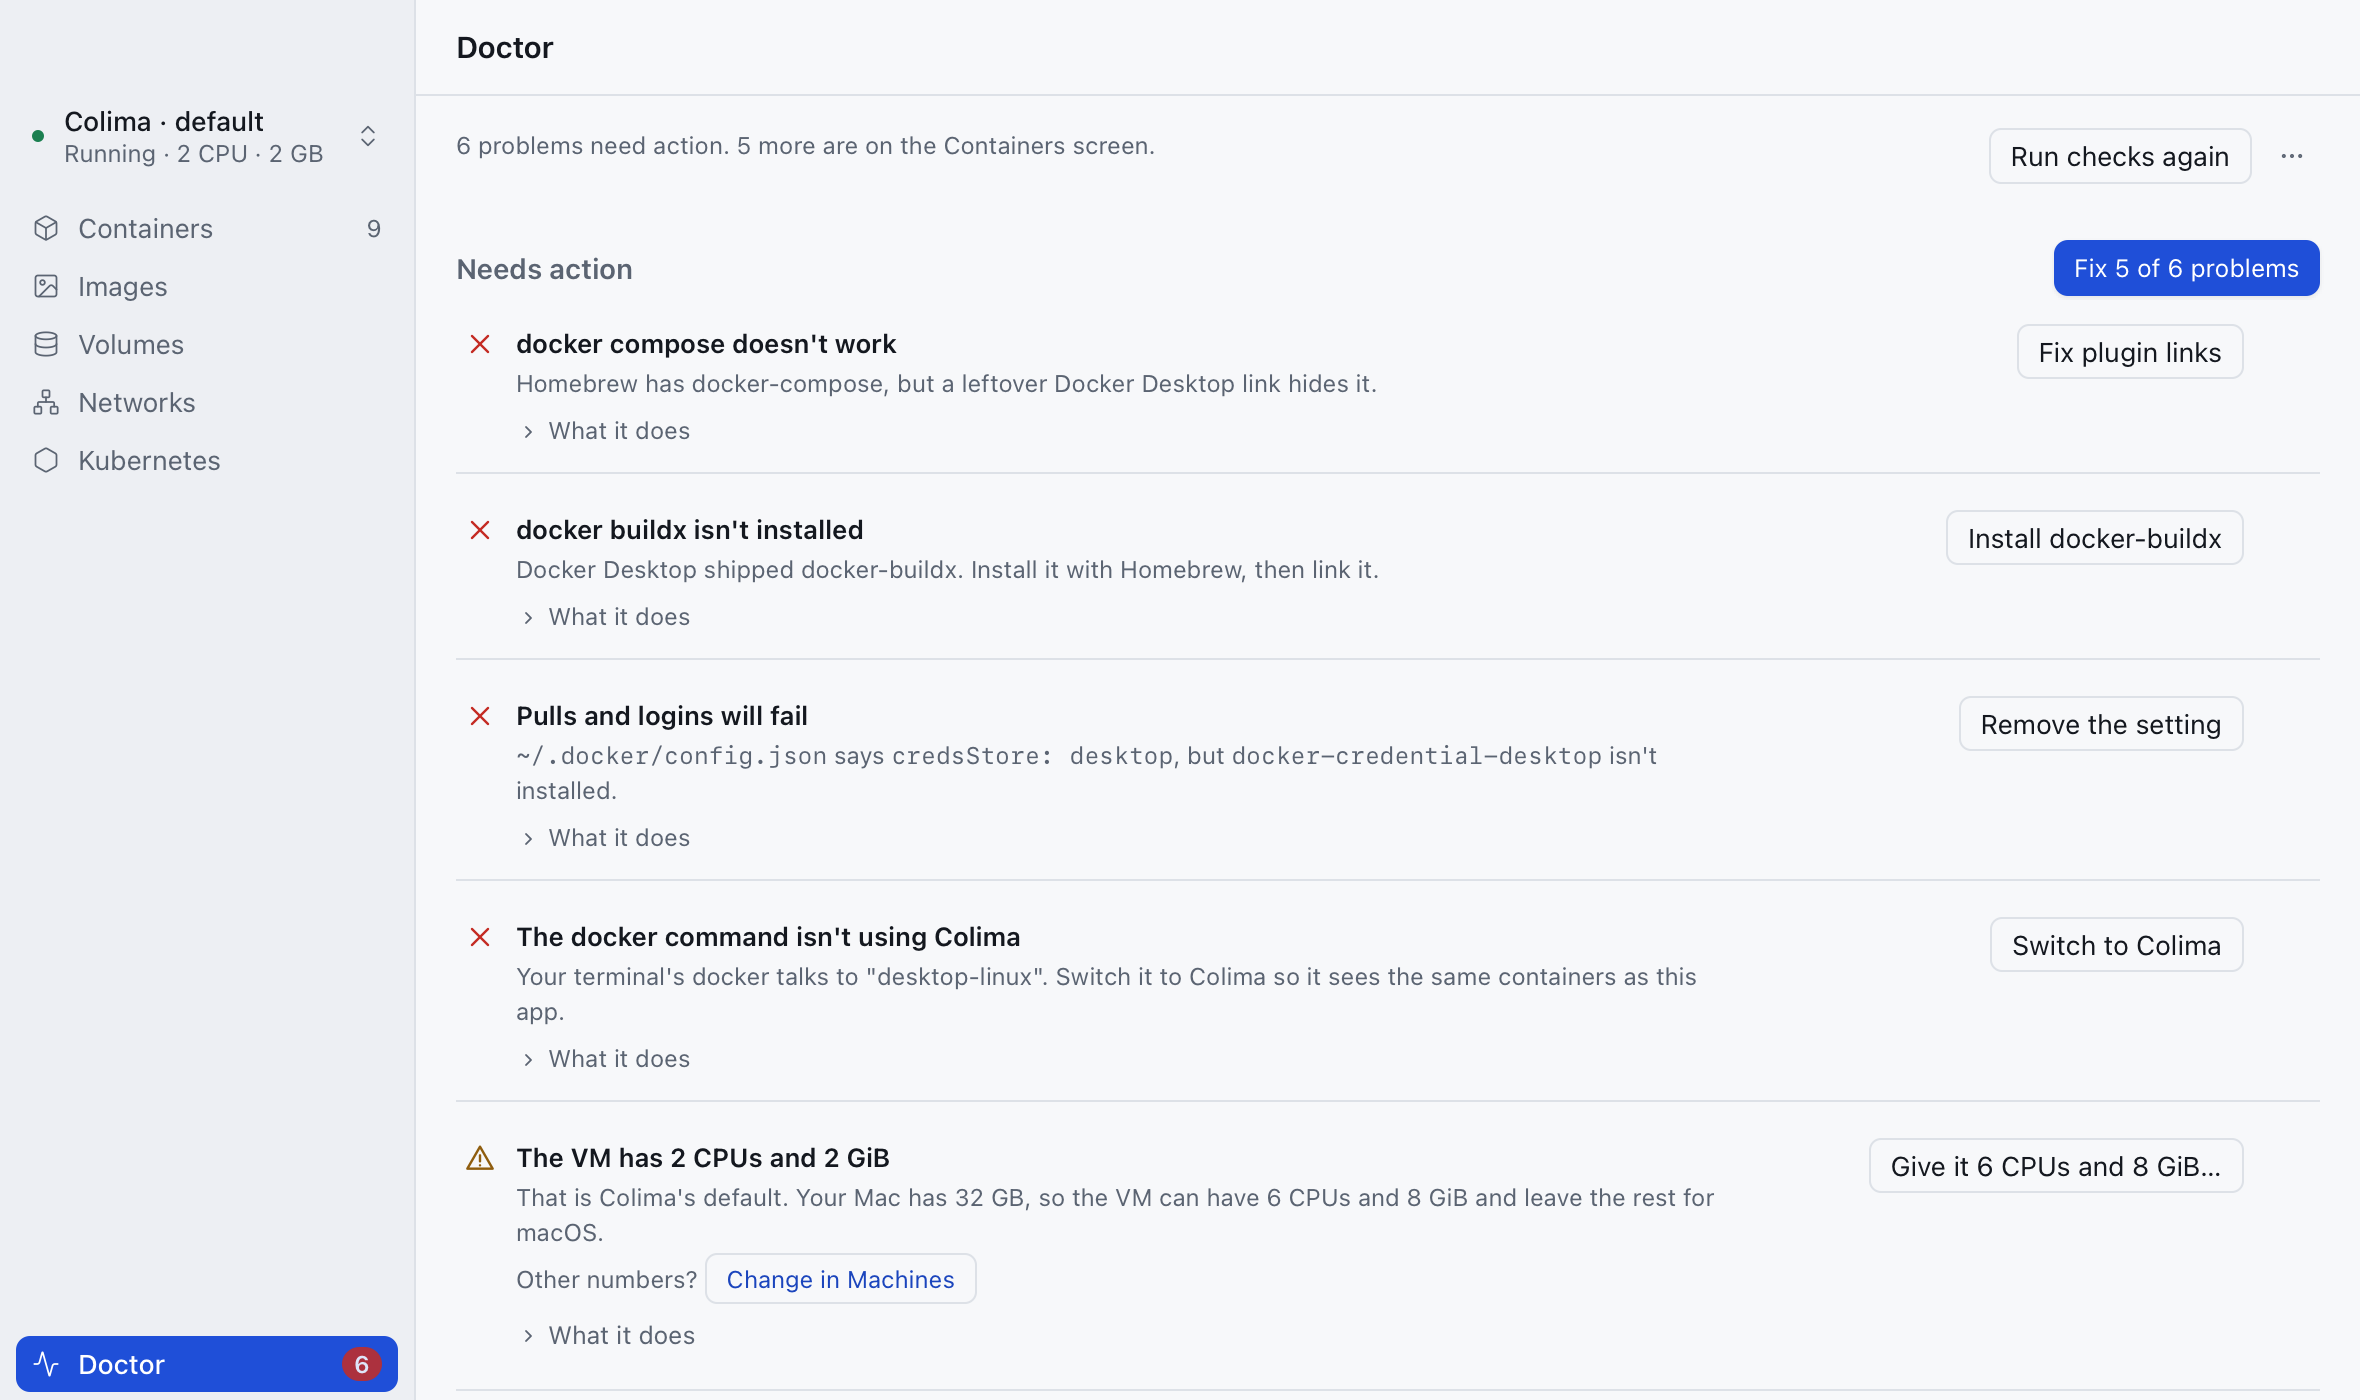
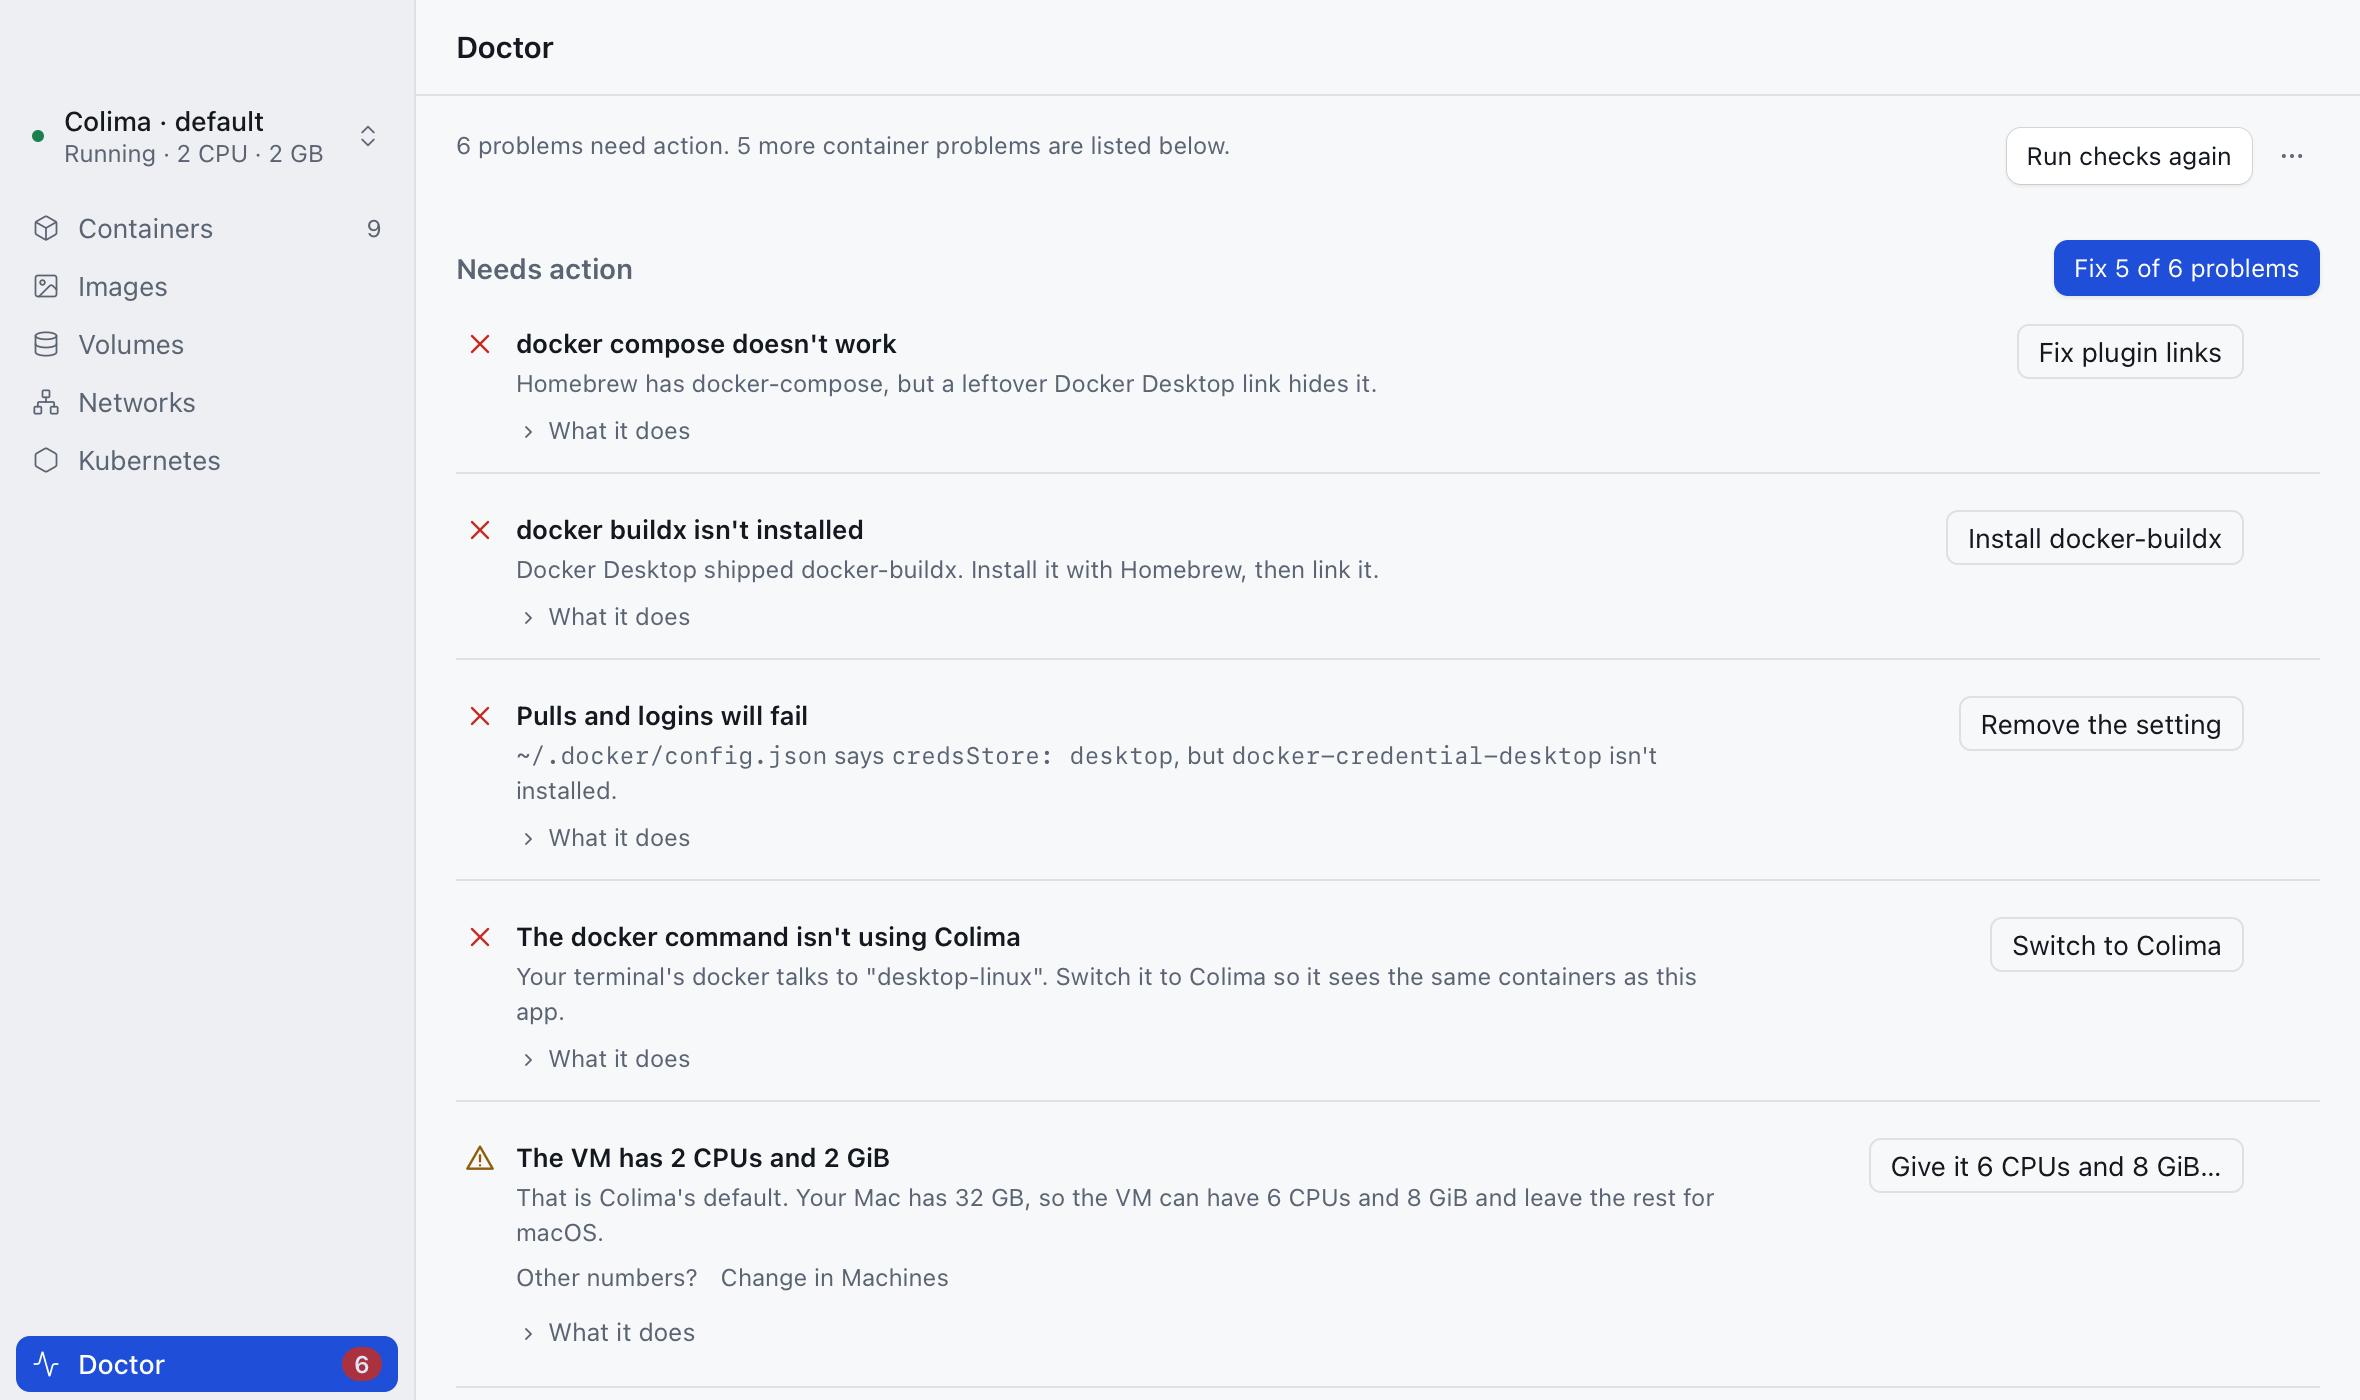
Release 0.3.1: four UI polish fixes (#2)
* Polish four UI details: Doctor summary, Kubernetes dot, Networks spacing, Pull tabs

* Release 0.3.1: version, changelog and README screenshots

---------

diff --git a/src/PullPanel.tsx b/src/PullPanel.tsx
@@ -101,14 +101,14 @@ export default function PullPanel({ ctx, onClose, onPulled, onRun, searchFor }: 
   return (
     <Sheet open={true} onClose={onClose} title="Pull an image" busy={pulling} footer={sheetFoot}>
       <div className="flex gap-1.5">
-        <ChipButton icon="search" pressed={!priv} onClick={() => switchMode("hub")}>Docker Hub</ChipButton>
-        <ChipButton icon="chev-right" pressed={priv} onClick={() => switchMode("private")}>Other registry</ChipButton>
+        <ChipButton pressed={!priv} onClick={() => switchMode("hub")}>Docker Hub</ChipButton>
+        <ChipButton pressed={priv} onClick={() => switchMode("private")}>Other registry</ChipButton>
       </div>
 
       {!priv && (
         <>
           <FormRow label="Image to pull" htmlFor="image-to-pull">
-            <Field id="image-to-pull" width="search" placeholder="nginx or postgres:16" value={image} disabled={copyBusy || pulling} onChange={(e) => setImage(e.target.value)} onKeyDown={(e) => { if (e.key === "Enter" && name && idle) void pull(); }} />
+            <Field id="image-to-pull" placeholder="nginx or postgres:16" value={image} disabled={copyBusy || pulling} onChange={(e) => setImage(e.target.value)} onKeyDown={(e) => { if (e.key === "Enter" && name && idle) void pull(); }} />
           </FormRow>
           <div className="flex flex-wrap gap-1.5">
             {SUGGESTIONS.map((n) => (
@@ -117,7 +117,7 @@ export default function PullPanel({ ctx, onClose, onPulled, onRun, searchFor }: 
           </div>
 
           <FormRow label="Search Docker Hub" htmlFor="search-docker-hub">
-            <Field id="search-docker-hub" aria-label="Search Docker Hub" icon="search" width="search" value={term} disabled={searching || pulling} onChange={(e) => setTerm(e.target.value)} onKeyDown={(e) => { if (e.key === "Enter") void search(); }} />
+            <Field id="search-docker-hub" aria-label="Search Docker Hub" icon="search" value={term} disabled={searching || pulling} onChange={(e) => setTerm(e.target.value)} onKeyDown={(e) => { if (e.key === "Enter") void search(); }} />
           </FormRow>
           <p className="hint">Searching downloads nothing. It only lists images; nothing is downloaded until you pull.</p>
           <Button disabled={!query || searching || pulling} onClick={search}>{searching ? "Searching…" : "Search"}</Button>

diff --git a/src/Kubernetes.tsx b/src/Kubernetes.tsx
@@ -7,7 +7,7 @@ import PodDrawer from "./PodDrawer";
 import { K8sEvent, Pod, parseDeployments, parseK8sEvents, parseNamespaces, parseNodes, parsePods, parseServices, podProblems } from "./lib/k8s";
 import { ago } from "./lib/events";
 import { Banner } from "./ui";
-import { Button, Select, TabPanel, Tabs } from "./ui/op";
+import { Button, Dot, Select, TabPanel, Tabs } from "./ui/op";
 import Card from "./ui/Card";
 import { Badge } from "@ui/components/Badge";
 import OutputLog from "./ui/OutputLog";
@@ -88,7 +88,7 @@ export default function Kubernetes({ profile, ctx }: { profile: Profile; ctx: st
   return (
     <section className="flex min-h-0 flex-col gap-4">
       <div className="vm-strip k8s-summary">
-        <span className={`sdot ${nodes.error ? "bad" : ready ? "on" : ""}`} aria-hidden="true" />
+        <Dot state={nodes.error ? "bad" : ready ? "ok" : "off"} />
         <b>{ready} node{ready === 1 ? "" : "s"} ready</b>
         <span className="hint">{nodes.error ? "The cluster isn't answering yet" : (nodes.data ?? []).map((n) => n.version).filter(Boolean)[0] ?? ""}</span>
         <span className="text-meta text-fg-muted"><span>{running} of {(pods.data ?? []).length} pods running</span>{sick.length > 0 && <><span aria-hidden="true"> · </span><span className="font-medium text-bad">{sick.length} need attention</span></>}</span>

diff --git a/src/Networks.tsx b/src/Networks.tsx
@@ -45,9 +45,9 @@ export default function Networks({ ctx }: { ctx: string }) {
       <Header title="Networks">
         <OpButton variant="default" size="sm" onClick={() => setTesting(true)}>Test a connection…</OpButton>
       </Header>
-      <p className="hint lead">
+      <p className="hint lead mt-3">
         Containers on the same network reach each other by name, like <code>http://db:5432</code>. The built-in <b>bridge</b> network doesn't do name lookup, so put containers that talk to each other on a network of your own.{" "}
-        <OpButton variant="ghost" size="sm" onClick={() => openUrl(BRIDGE_DOCS)}>Learn more <span className="font-mono text-fg-muted">(docs.docker.com)</span></OpButton>
+        <OpButton variant="ghost" size="sm" onClick={() => openUrl(BRIDGE_DOCS)}>Learn more on <span className="font-mono text-fg-muted">docs.docker.com</span></OpButton>
       </p>
       <div className="flex items-center gap-2">
         <Field className="w-64" aria-label="New network name" placeholder="New network name, like devnet" value={newName} onChange={(e) => setNewName(e.target.value)} onKeyDown={(e) => e.key === "Enter" && valid && act(["network", "create", newName.trim()]).then(() => setNewName(""))} />

diff --git a/src/Doctor.tsx b/src/Doctor.tsx
@@ -279,8 +279,8 @@ export default function Doctor({ ctx, setup, doc, onProfiles, onBring, onGo, onO
   };
 
   // The container problems below are counted on their own rows, not here, so the line says where they are.
-  const onScreen = onHome.length ? ` ${onHome.length} ${todo ? "more" : onHome.length === 1 ? "container problem" : "container problems"} ${onHome.length === 1 ? "is" : "are"} on the Containers screen.` : "";
-  const summary = `${todo === 0 && onHome.length ? "Nothing needs action here." : summaryOf(todo)}${onScreen}`;
+  const onScreen = onHome.length ? ` ${onHome.length}${todo ? " more" : ""} ${onHome.length === 1 ? "container problem" : "container problems"} ${onHome.length === 1 ? "is" : "are"} listed below.` : "";
+  const summary = `${todo === 0 && onHome.length ? "Your setup is healthy." : summaryOf(todo)}${onScreen}`;
   return (
     <div className="setup doctor !max-w-none pt-4" onFocus={onFocusIn} onMouseDown={(e) => controlAt(e.target) && noteRow(e.target)}>
       <div className="doctor-head">

diff --git a/CHANGELOG.md b/CHANGELOG.md
@@ -2,6 +2,14 @@
 
 Newest first. Older entries record what was true when they were written; later entries supersede them (the Overview, for example, was replaced by the Containers home screen).
 
+## 0.3.1
+
+1. **Checkboxes and number fields look like the rest of the app.** Volumes, Bring over and the pod drawer no longer show system checkboxes. The Disk, CPUs and Memory fields in Edit machine have no browser stepper.
+2. **Doctor reads clearly.** The top line says "Your setup is healthy." and where the container problems are. The "Fixed together with" name no longer has extra gaps.
+3. **Smaller fixes.** The Kubernetes status dot is easy to see. The Networks intro has space under the header. The Pull panel tabs no longer look like a breadcrumb, and its search field fills the panel.
+4. **Windows (experimental, separate download).** Docker inside WSL2 works without Docker Desktop. Not tested on a real Windows machine yet.
+5. **Tests.** The browser checks now run with Playwright Test in Chromium and WebKit, and the planning notes became ADRs in `docs/adr/`.
+
 ## 0.3.0
 
 1. The app is now called Container UI. Your saved settings are kept.
